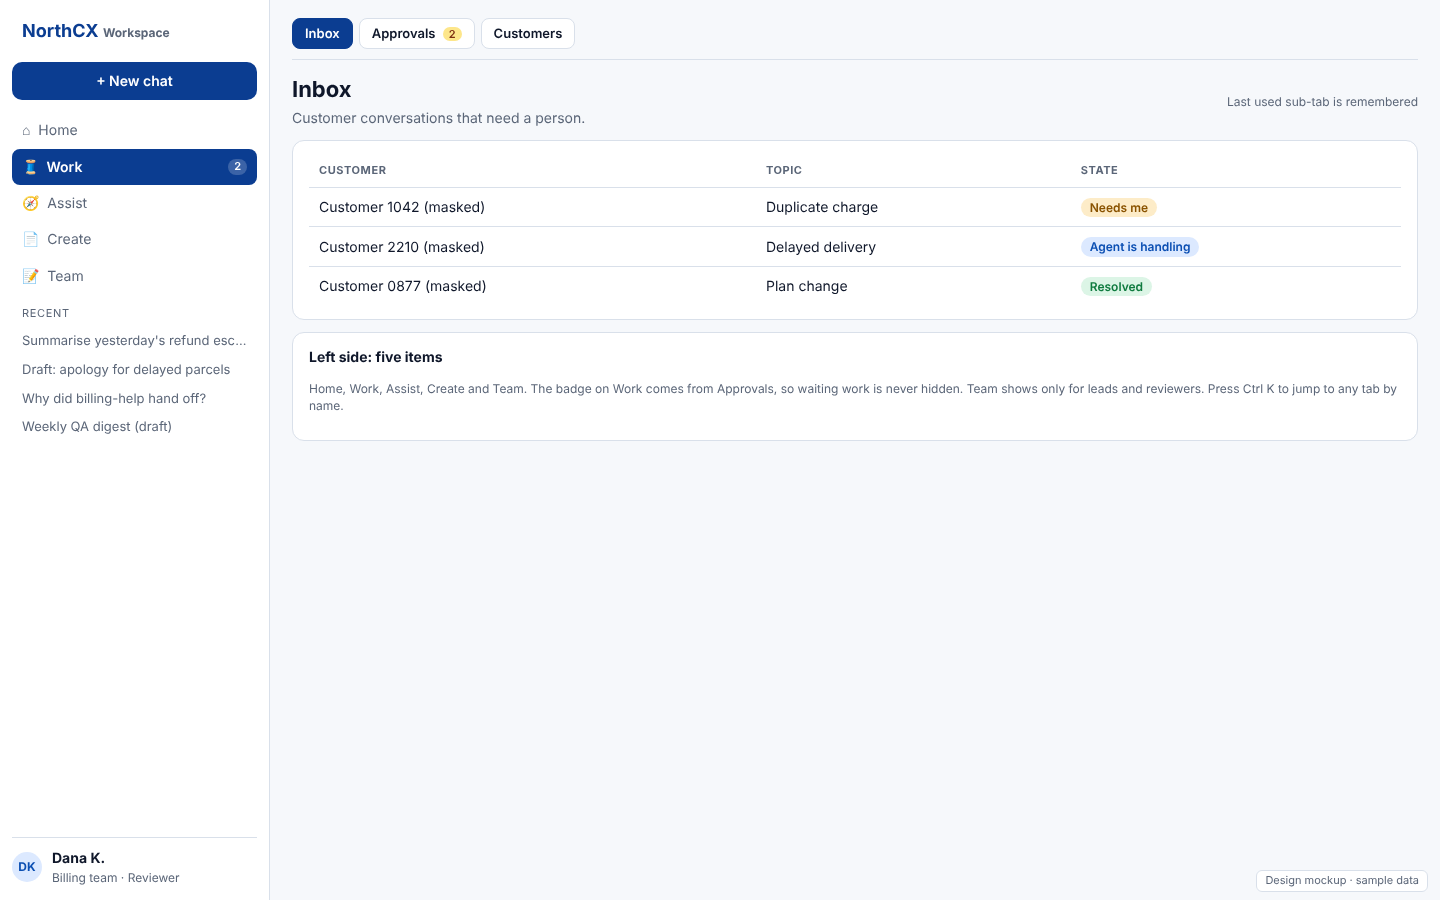
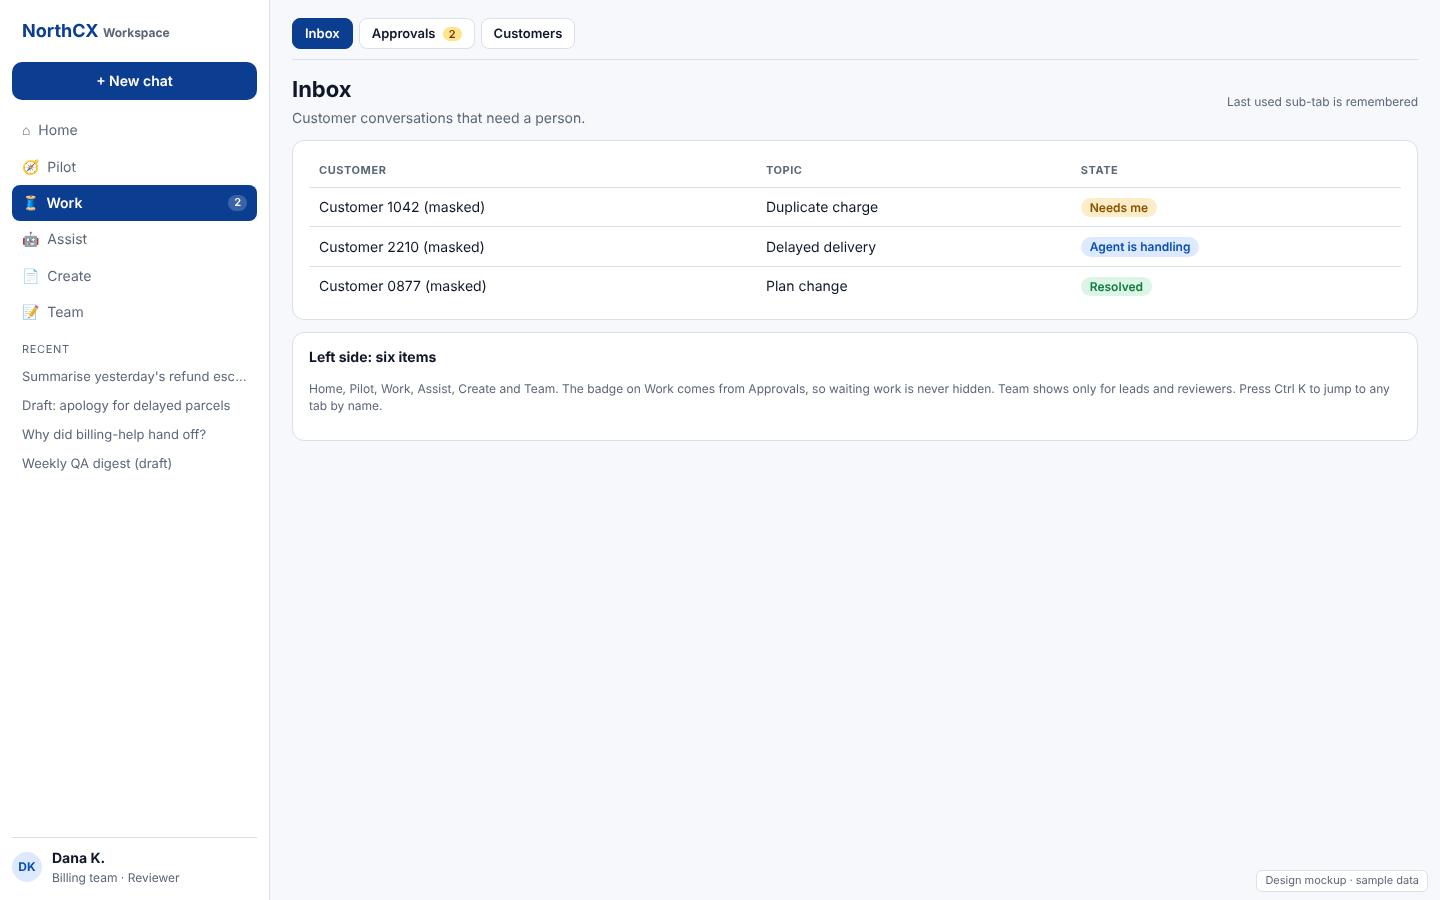
Docs: Pilot is its own left item; six-item Workspace navigation (decision 157)
Claude-Session: https://claude.ai/code/session_01JwVSXDmBfAEtrqDiy6qnSt

diff --git a/docs/07-design/mockups/54-workspace-subtabs-assist.html b/docs/07-design/mockups/54-workspace-subtabs-assist.html
@@ -39,6 +39,6 @@ td{padding:9px 10px;border-bottom:1px solid var(--border)}tr:last-child td{borde
 .sw2{width:36px;height:20px;border-radius:12px;background:var(--primary);position:relative;display:inline-block}.sw2:after{content:"";position:absolute;right:2px;top:2px;width:16px;height:16px;border-radius:50%;background:#fff}.sw2.off{background:var(--border)}.sw2.off:after{right:auto;left:2px}
 .setnav a{display:block;padding:8px 12px;border-radius:8px;color:var(--muted)}.setnav a.on{background:var(--info-bg);color:var(--info);font-weight:700}.setnav .grp{padding-top:14px}
 </style></head><body><div class="ws2">
-<div class="side"><div class="brand">NorthCX <span class="note">Workspace</span></div><a class="newc">+ New chat</a><div class="nav"><a class=""><span>&#8962; &nbsp;Home</span></a><a class=""><span>&#129525; &nbsp;Work</span><span class=n>2</span></a><a class="on"><span>&#129517; &nbsp;Assist</span></a><a class=""><span>&#128196; &nbsp;Create</span></a><a class=""><span>&#128221; &nbsp;Team</span></a></div><div class="grp">Recent</div><div class="recent ">Summarise yesterday&#x27;s refund escalations</div><div class="recent ">Draft: apology for delayed parcels</div><div class="recent ">Why did billing-help hand off?</div><div class="recent ">Weekly QA digest (draft)</div>
+<div class="side"><div class="brand">NorthCX <span class="note">Workspace</span></div><a class="newc">+ New chat</a><div class="nav"><a class=""><span>&#8962; &nbsp;Home</span></a><a class=""><span>&#129517; &nbsp;Pilot</span></a><a class=""><span>&#129525; &nbsp;Work</span><span class=n>2</span></a><a class="on"><span>&#129302; &nbsp;Assist</span></a><a class=""><span>&#128196; &nbsp;Create</span></a><a class=""><span>&#128221; &nbsp;Team</span></a></div><div class="grp">Recent</div><div class="recent ">Summarise yesterday&#x27;s refund escalations</div><div class="recent ">Draft: apology for delayed parcels</div><div class="recent ">Why did billing-help hand off?</div><div class="recent ">Weekly QA digest (draft)</div>
 <div class="me"><div class="av">DK</div><div><b>Dana K.</b><div class="note">Billing team &middot; Reviewer</div></div></div></div>
-<div class="work"><style>.pb{border:1px solid var(--border);background:var(--surface);border-radius:8px;padding:5px 12px;font-size:13px;font-weight:600}.pb.on{background:var(--primary);color:#fff;border-color:var(--primary)}.pb .n{background:#fde68a;color:#7c2d12;border-radius:9px;padding:0 6px;font-size:11px;margin-left:4px}</style><div class="row" style="gap:6px;margin-bottom:14px;border-bottom:1px solid var(--border);padding-bottom:10px"><span class="pb ">Pilot</span><span class="pb on">Assistants</span><span class="pb ">Search</span><span class="pb ">Library</span></div><div class="row2" style="margin-bottom:12px"><div><h1 style="margin:0">Assistants</h1><p class="sub" style="margin:2px 0 0">Predefined staff assistants. Pick one to start a Pilot task.</p></div><div></div></div><div class="card"><p class="note">Assist holds Pilot, Assistants, Search and Library. Opening a Pilot task hides this sub-tab row so the task has the full width; a back arrow returns to it.</p></div></div></div><div class="mock">Design mockup &middot; sample data</div></body></html>
+<div class="work"><style>.pb{border:1px solid var(--border);background:var(--surface);border-radius:8px;padding:5px 12px;font-size:13px;font-weight:600}.pb.on{background:var(--primary);color:#fff;border-color:var(--primary)}.pb .n{background:#fde68a;color:#7c2d12;border-radius:9px;padding:0 6px;font-size:11px;margin-left:4px}</style><div class="row" style="gap:6px;margin-bottom:14px;border-bottom:1px solid var(--border);padding-bottom:10px"><span class="pb on">Assistants</span><span class="pb ">Search</span><span class="pb ">Library</span></div><div class="row2" style="margin-bottom:12px"><div><h1 style="margin:0">Assistants</h1><p class="sub" style="margin:2px 0 0">Predefined staff assistants. Pick one to start a Pilot task.</p></div><div></div></div><div class="card"><p class="note">Assist holds Assistants, Search and Library. Pilot is its own left item and opens full width, with no sub-tab row; its own inner tabs (Plan, Result, Files and the rest) sit inside the task.</p></div></div></div><div class="mock">Design mockup &middot; sample data</div></body></html>

diff --git a/docs/07-design/mockups/53-workspace-subtabs.html b/docs/07-design/mockups/53-workspace-subtabs.html
@@ -39,9 +39,9 @@ td{padding:9px 10px;border-bottom:1px solid var(--border)}tr:last-child td{borde
 .sw2{width:36px;height:20px;border-radius:12px;background:var(--primary);position:relative;display:inline-block}.sw2:after{content:"";position:absolute;right:2px;top:2px;width:16px;height:16px;border-radius:50%;background:#fff}.sw2.off{background:var(--border)}.sw2.off:after{right:auto;left:2px}
 .setnav a{display:block;padding:8px 12px;border-radius:8px;color:var(--muted)}.setnav a.on{background:var(--info-bg);color:var(--info);font-weight:700}.setnav .grp{padding-top:14px}
 </style></head><body><div class="ws2">
-<div class="side"><div class="brand">NorthCX <span class="note">Workspace</span></div><a class="newc">+ New chat</a><div class="nav"><a class=""><span>&#8962; &nbsp;Home</span></a><a class="on"><span>&#129525; &nbsp;Work</span><span class=n>2</span></a><a class=""><span>&#129517; &nbsp;Assist</span></a><a class=""><span>&#128196; &nbsp;Create</span></a><a class=""><span>&#128221; &nbsp;Team</span></a></div><div class="grp">Recent</div><div class="recent ">Summarise yesterday&#x27;s refund escalations</div><div class="recent ">Draft: apology for delayed parcels</div><div class="recent ">Why did billing-help hand off?</div><div class="recent ">Weekly QA digest (draft)</div>
+<div class="side"><div class="brand">NorthCX <span class="note">Workspace</span></div><a class="newc">+ New chat</a><div class="nav"><a class=""><span>&#8962; &nbsp;Home</span></a><a class=""><span>&#129517; &nbsp;Pilot</span></a><a class="on"><span>&#129525; &nbsp;Work</span><span class=n>2</span></a><a class=""><span>&#129302; &nbsp;Assist</span></a><a class=""><span>&#128196; &nbsp;Create</span></a><a class=""><span>&#128221; &nbsp;Team</span></a></div><div class="grp">Recent</div><div class="recent ">Summarise yesterday&#x27;s refund escalations</div><div class="recent ">Draft: apology for delayed parcels</div><div class="recent ">Why did billing-help hand off?</div><div class="recent ">Weekly QA digest (draft)</div>
 <div class="me"><div class="av">DK</div><div><b>Dana K.</b><div class="note">Billing team &middot; Reviewer</div></div></div></div>
 <div class="work"><style>.pb{border:1px solid var(--border);background:var(--surface);border-radius:8px;padding:5px 12px;font-size:13px;font-weight:600}.pb.on{background:var(--primary);color:#fff;border-color:var(--primary)}.pb .n{background:#fde68a;color:#7c2d12;border-radius:9px;padding:0 6px;font-size:11px;margin-left:4px}</style><div class="row" style="gap:6px;margin-bottom:14px;border-bottom:1px solid var(--border);padding-bottom:10px"><span class="pb on">Inbox</span><span class="pb ">Approvals <span class=n>2</span></span><span class="pb ">Customers</span></div><div class="row2" style="margin-bottom:12px"><div><h1 style="margin:0">Inbox</h1><p class="sub" style="margin:2px 0 0">Customer conversations that need a person.</p></div><div><span class="note">Last used sub-tab is remembered</span></div></div><div class="card"><table><tr><th>Customer</th><th>Topic</th><th>State</th></tr>
 <tr><td>Customer 1042 (masked)</td><td>Duplicate charge</td><td><span class="b warn">Needs me</span></td></tr><tr><td>Customer 2210 (masked)</td><td>Delayed delivery</td><td><span class="b info">Agent is handling</span></td></tr>
 <tr><td>Customer 0877 (masked)</td><td>Plan change</td><td><span class="b ok">Resolved</span></td></tr></table></div>
-<div class="card" style="margin-top:12px"><b>Left side: five items</b><p class="note">Home, Work, Assist, Create and Team. The badge on Work comes from Approvals, so waiting work is never hidden. Team shows only for leads and reviewers. Press Ctrl K to jump to any tab by name.</p></div></div></div><div class="mock">Design mockup &middot; sample data</div></body></html>
+<div class="card" style="margin-top:12px"><b>Left side: six items</b><p class="note">Home, Pilot, Work, Assist, Create and Team. The badge on Work comes from Approvals, so waiting work is never hidden. Team shows only for leads and reviewers. Press Ctrl K to jump to any tab by name.</p></div></div></div><div class="mock">Design mockup &middot; sample data</div></body></html>

diff --git a/scripts/gen_design_mockups.py b/scripts/gen_design_mockups.py
@@ -688,7 +688,7 @@ body{{padding:28px;min-height:900px}}h1{{margin-bottom:4px}}</style></head><body
 <div class="card" style="margin-top:12px"><h3>Cross-cutting</h3><div class="row"><span class="tag">Global search (Ctrl K)</span><span class="tag">Tenant and environment switcher</span><span class="tag">Role-aware navigation (items hide, not grey out)</span><span class="tag">Light and dark</span><span class="tag">Keyboard and screen-reader support</span><span class="tag">Empty, loading and error states</span><span class="tag">Confirm before destructive actions, recorded in audit</span></div></div></body></html>"""
 
 
-SUB_GROUPS = [("Work", "&#129525;", ["Inbox", "Approvals", "Customers"], 2), ("Assist", "&#129517;", ["Pilot", "Assistants", "Search", "Library"], 0),
+SUB_GROUPS = [("Pilot", "&#129517;", [], 0), ("Work", "&#129525;", ["Inbox", "Approvals", "Customers"], 2), ("Assist", "&#129302;", ["Assistants", "Search", "Library"], 0),
               ("Create", "&#128196;", ["Outputs", "Spaces", "Automations"], 0), ("Team", "&#128221;", ["Quality", "Performance"], 0)]
 
 
@@ -708,9 +708,9 @@ def subtabs(group, on):
 SCREENS["53-workspace-subtabs"] = wsapp("Work", subtabs("Work", "Inbox") + head("Inbox", "Customer conversations that need a person.", '<span class="note">Last used sub-tab is remembered</span>') + f"""<div class="card"><table><tr><th>Customer</th><th>Topic</th><th>State</th></tr>
 <tr><td>Customer 1042 (masked)</td><td>Duplicate charge</td><td><span class="b warn">Needs me</span></td></tr><tr><td>Customer 2210 (masked)</td><td>Delayed delivery</td><td><span class="b info">Agent is handling</span></td></tr>
 <tr><td>Customer 0877 (masked)</td><td>Plan change</td><td><span class="b ok">Resolved</span></td></tr></table></div>
-<div class="card" style="margin-top:12px"><b>Left side: five items</b><p class="note">Home, Work, Assist, Create and Team. The badge on Work comes from Approvals, so waiting work is never hidden. Team shows only for leads and reviewers. Press Ctrl K to jump to any tab by name.</p></div>""", "Workspace sub-tabs", nav_html=subnav("Work"))
+<div class="card" style="margin-top:12px"><b>Left side: six items</b><p class="note">Home, Pilot, Work, Assist, Create and Team. The badge on Work comes from Approvals, so waiting work is never hidden. Team shows only for leads and reviewers. Press Ctrl K to jump to any tab by name.</p></div>""", "Workspace sub-tabs", nav_html=subnav("Work"))
 
-SCREENS["54-workspace-subtabs-assist"] = wsapp("Assist", subtabs("Assist", "Assistants") + head("Assistants", "Predefined staff assistants. Pick one to start a Pilot task.") + """<div class="card"><p class="note">Assist holds Pilot, Assistants, Search and Library. Opening a Pilot task hides this sub-tab row so the task has the full width; a back arrow returns to it.</p></div>""", "Workspace sub-tabs (Assist)", nav_html=subnav("Assist"))
+SCREENS["54-workspace-subtabs-assist"] = wsapp("Assist", subtabs("Assist", "Assistants") + head("Assistants", "Predefined staff assistants. Pick one to start a Pilot task.") + """<div class="card"><p class="note">Assist holds Assistants, Search and Library. Pilot is its own left item and opens full width, with no sub-tab row; its own inner tabs (Plan, Result, Files and the rest) sit inside the task.</p></div>""", "Workspace sub-tabs (Assist)", nav_html=subnav("Assist"))
 
 
 if __name__ == "__main__":

diff --git a/docs/07-design/NorthCX_Platform-Features-and-Tabs.md b/docs/07-design/NorthCX_Platform-Features-and-Tabs.md
@@ -15,20 +15,21 @@ Status: **working specification, 2026-11-09.** One place that gathers what was d
 The two apps have separate addresses, one sign-in and one design system. A person with roles in both gets an app switcher; links jump between them (for example from a hand-off in Admin to the conversation in Workspace). **Look and feel:** "glass", meaning translucent surfaces over a soft gradient in light and dark, with solid surfaces when the system or the person asks for less transparency, and high-contrast and reduced-motion options.
 
 ## 2. Workspace: tabs and features (final names, decided 2026-11-09)
-Home is the landing page; Settings is in the corner. Twelve tabs in four groups (3 + 4 + 3 + 2), shown as five left items with sub-tabs (see below). The owner approved these names on 2026-11-09. Whether Approvals, Customers, Library, Quality and Performance become tabs was proposed and is not yet confirmed (section 10); the six tabs the owner decided earlier are Pilot, Assistants, Search, Outputs, Spaces and Inbox, with Automations replacing Workflows and Scheduled.
+Home is the landing page; Settings is in the corner. Twelve tabs in four groups (3 + 4 + 3 + 2), shown as six left items with sub-tabs (see below). The owner approved these names on 2026-11-09. Whether Approvals, Customers, Library, Quality and Performance become tabs was proposed and is not yet confirmed (section 10); the six tabs the owner decided earlier are Pilot, Assistants, Search, Outputs, Spaces and Inbox, with Automations replacing Workflows and Scheduled.
 
-### How the tabs are shown (proposed 2026-11-09): sub-tabs instead of a long list
-The left side shows only **five items**, not twelve tabs. Each group opens its own **sub-tabs** across the top of the page. The twelve tabs and their names do not change; only where they are shown changes.
+### How the tabs are shown (decided 2026-11-09): sub-tabs instead of a long list
+The left side shows only **six items**, not twelve tabs. Pilot is its own item because people open it most; the other groups open their own **sub-tabs** across the top of the page. The twelve tabs and their names do not change; only where they are shown changes.
 
 | Left item | Sub-tabs |
 |---|---|
 | **Home** | none (the landing page) |
+| **Pilot** | none; opens full width with its own inner tabs (section 3) |
 | **Work** | Inbox, Approvals, Customers |
-| **Assist** | Pilot, Assistants, Search, Library |
+| **Assist** | Assistants, Search, Library |
 | **Create** | Outputs, Spaces, Automations |
 | **Team** (leads and reviewers only; hidden for everyone else) | Quality, Performance |
 
-Settings and the profile stay in the corner. Rules: a count badge on a sub-tab (for example Approvals) also shows on its group item, so nothing waiting is hidden; the group remembers the last sub-tab you used; Pilot opens full width and hides the sub-tab row while a task is running; a group with one visible sub-tab shows no sub-tab row; search and the command bar (jump to any tab by typing its name) reach every tab in one step. The Admin app uses the same idea: its four groups (Operate, Build, Govern, Platform) already work this way. Mockups: `docs/assets/design/53-workspace-subtabs.png` (Work with its sub-tabs) and `54-workspace-subtabs-assist.png` (Assist). Open for the owner: whether Pilot should be its own left item instead of living under Assist, because it is the page people open most.
+Settings and the profile stay in the corner. Rules: a count badge on a sub-tab (for example Approvals) also shows on its group item, so nothing waiting is hidden; the group remembers the last sub-tab you used; a group with one visible sub-tab shows no sub-tab row; search and the command bar (Ctrl K, jump to any tab by typing its name) reach every tab in one step. The Admin app uses the same idea: its four groups (Operate, Build, Govern, Platform) already work this way. Mockups: `docs/assets/design/53-workspace-subtabs.png` (Work with its sub-tabs) and `54-workspace-subtabs-assist.png` (Assist).
 
 ### Work
 | Tab | Purpose | Features | State |

diff --git a/docs/09-project/NorthCX_Decision-Log.md b/docs/09-project/NorthCX_Decision-Log.md
@@ -158,3 +158,4 @@
 | 154 | Admin page names: Library (was Knowledge), Analytics (was Insights), Systems (was Connectors for the organization page), Organization settings (was Settings); Admin keeps Hand-offs while the Workspace calls the same queue Inbox; Personal keeps Connectors; the Workspace keeps Performance and Library | Decided by the owner (2026-11-09) | One word for one thing across both apps, without making administrators relearn the queue name |
 | 155 | The Pilot inner tab formerly called Output is renamed Result, so it is not confused with the Outputs tab (the saved library); the other inner tabs are Plan, Files, Sources, Context, Steps and Side chat | Decided by the owner (2026-11-09) | One word for one thing: Result is what the current chat is making, Outputs is what has been saved |
 | 156 | Workspace navigation shows five left items (Home, Work, Assist, Create, Team) with the twelve tabs as sub-tabs inside them, instead of one long list | Proposed (owner asked for sub-tabs, 2026-11-09); grouping not yet confirmed | A short sidebar is easier to scan; badges on groups keep waiting items visible |
+| 157 | Workspace navigation is six left items: Home, Pilot, Work, Assist, Create, Team; Pilot is its own item and Assist holds Assistants, Search and Library. This confirms and refines decision 156 | Decided by the owner (2026-11-09) | Pilot is the page people open most, so it should be one click away |
